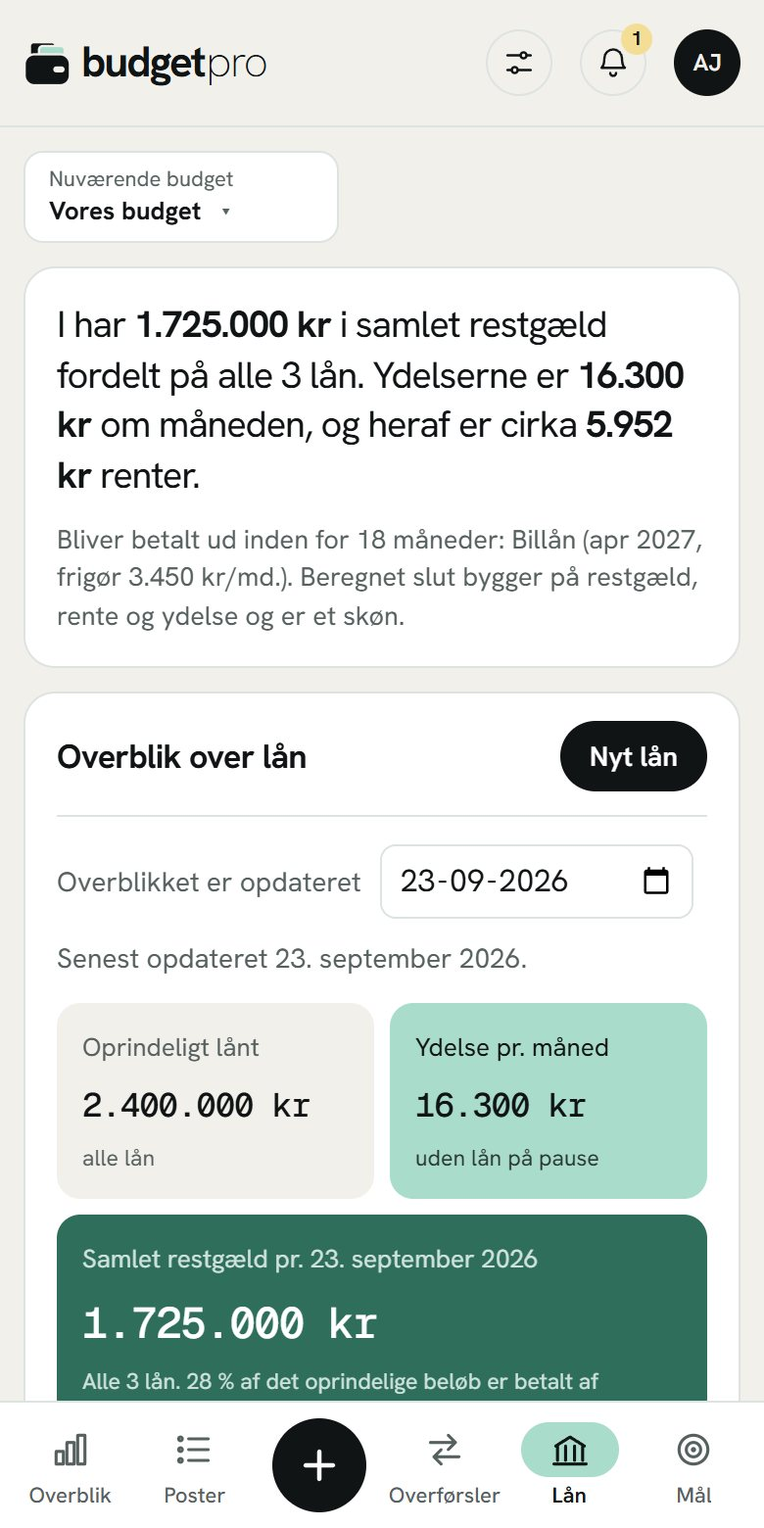
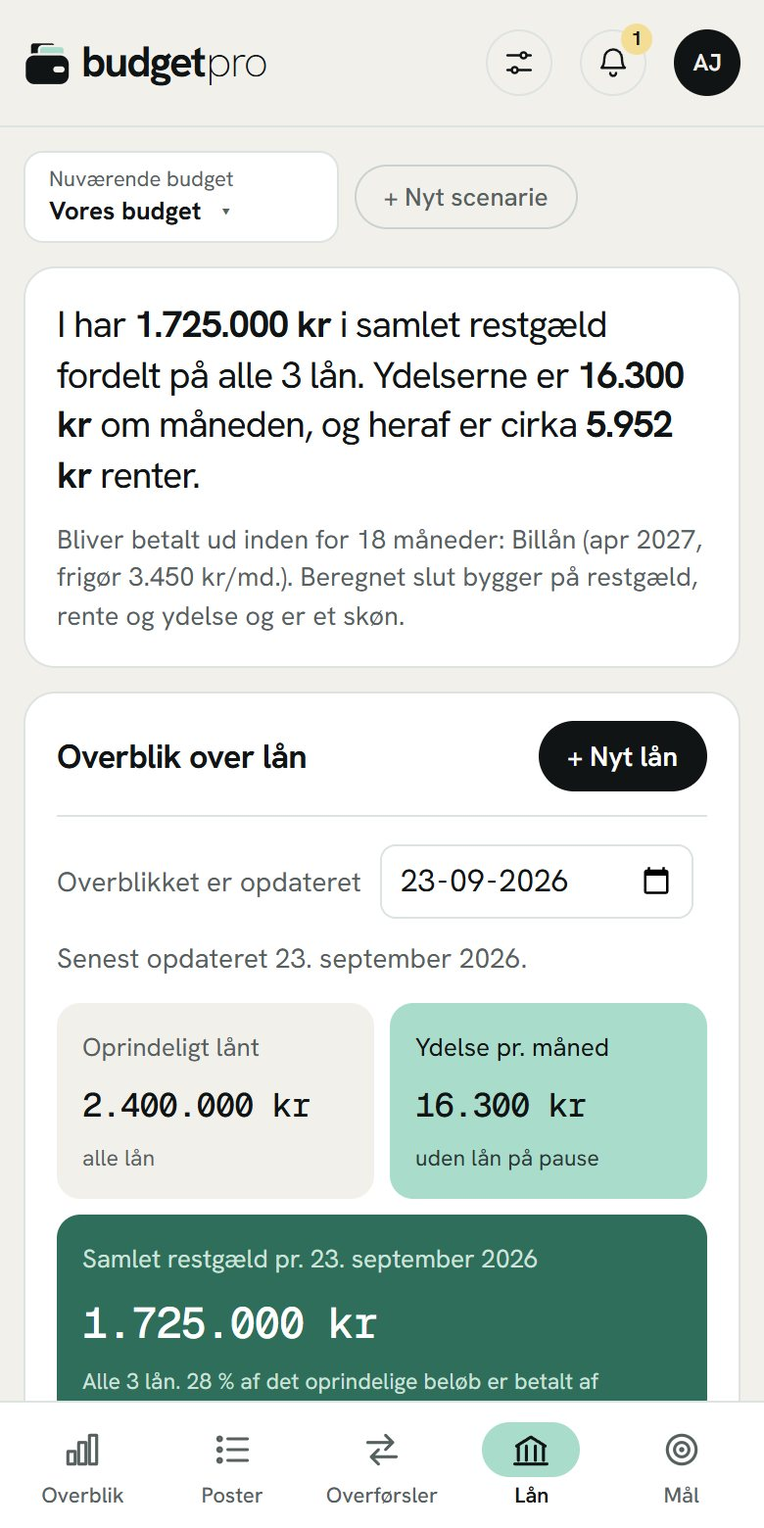
Phones: floating + on Budgetposter only, no sideways scrolling, one look for new buttons
The + leaves the bottom bar again. Filter chips wrap, and the wide tables are left out on phones.
A page's own create button is a blæk pill with +, a second one (Nyt scenarie on every page, Tilføj
in settings and the guide) a light pill with +. Income options are worded for every income.

diff --git a/public/budgetr-app/index.html b/public/budgetr-app/index.html
@@ -993,11 +993,13 @@ dialog.howdlg{width:min(1180px,96vw);max-width:none;height:92vh;max-height:92vh;
 .navrow .tools{align-self:center;padding:10px 0!important;gap:8px}
 .scnbtn{font:500 13px var(--font)!important;padding:8px 12px!important;border-radius:10px!important}
 .scnbtn #scnName{font-weight:700}
-/* "Nuværende budget" is a small, quiet label; "+ Nyt scenarie" a light pill next to the budget button, on Overblik only. */
+/* "Nuværende budget" is a small, quiet label. Every "new" button looks alike: a page's own create button is a blæk
+   pill starting with + (#btnNew, .newcta), a second one a light pill with a thin edge in the same shape (.addcta: Nyt
+   scenarie next to the budget button on every page, Tilføj … in settings and the guide). */
 .scnbtn .lbl{font-size:12px;font-weight:400;color:var(--ink2)}
-.scncta{padding:8px 14px!important;font:600 13px var(--font)!important;border-radius:999px!important;background:var(--card)!important;color:var(--ink)!important;border:1px solid var(--ink)!important}
-.scncta:hover{background:var(--band)!important}
-body:not([data-page="budget"]) #btnNewScn{display:none}
+.newcta{padding:9px 16px!important;font:600 13px var(--font)!important;border-radius:999px!important}
+.addcta{padding:7px 14px!important;font:500 13px var(--font)!important;border-radius:999px!important;background:transparent!important;color:var(--ink2)!important;border:1px solid var(--rule2)!important;box-shadow:none!important}
+.addcta:hover{color:var(--ink)!important;border-color:var(--ink3)!important}
 /* Phones: the label sits above the name, so the button and "+ Nyt scenarie" share one row. */
 @media (max-width:760px){
   .navrow .tools{flex-wrap:nowrap}
@@ -1005,7 +1007,8 @@ body:not([data-page="budget"]) #btnNewScn{display:none}
   .scnbtn{display:inline-grid!important;grid-template-columns:minmax(0,auto) auto;column-gap:8px;row-gap:1px;max-width:100%;text-align:left;padding:7px 12px!important}
   .scnbtn .lbl{grid-column:1/-1;font-size:11px;line-height:1.2}
   .scnbtn #scnName{min-width:0;max-width:none}
-  .scncta{flex-shrink:0;align-self:stretch}
+  #btnNewScn{flex-shrink:0;align-self:center}
+  .devsec .tablewrap,section.ltproj,section.ltend .tablewrap,section.gsum{display:none!important}
 }
 #btnNew{padding:9px 16px!important;font:600 13px var(--font)!important;border-radius:999px}
 button{border-radius:999px}
@@ -1155,7 +1158,7 @@ dialog h2,.sethead h2{font-weight:700}
   .navrow .tools{padding:12px 0 0!important}
   .setbtn{display:flex!important}
   .appbar .status{display:none}
-  .mnav{display:grid;grid-template-columns:repeat(2,minmax(0,1fr)) 64px repeat(3,minmax(0,1fr));position:fixed;left:0;right:0;bottom:0;z-index:40;background:var(--card);border-top:1px solid var(--rule);padding:4px 4px calc(4px + env(safe-area-inset-bottom,0px))}
+  .mnav{display:grid;grid-template-columns:repeat(5,minmax(0,1fr));position:fixed;left:0;right:0;bottom:0;z-index:40;background:var(--card);border-top:1px solid var(--rule);padding:4px 4px calc(4px + env(safe-area-inset-bottom,0px))}
   .mnav button{display:flex;flex-direction:column;align-items:center;justify-content:center;gap:3px;min-height:56px;padding:4px 0!important;border:0!important;background:transparent!important;color:var(--ink2)!important;font:500 11px/1.2 var(--font)!important;border-radius:12px!important;-webkit-tap-highlight-color:transparent}
   .mnav svg{box-sizing:content-box;width:22px;height:22px;padding:3px 14px;border-radius:14px;fill:none;stroke:currentColor;stroke-width:1.7;stroke-linecap:round;stroke-linejoin:round;transition:background .15s}
   .mnav button[aria-selected="true"]{color:var(--ink)!important;font-weight:600!important}
@@ -1163,11 +1166,8 @@ dialog h2,.sethead h2{font-weight:700}
   .mnav span{max-width:100%;overflow:hidden;text-overflow:ellipsis;white-space:nowrap}
   .fab{display:flex;align-items:center;justify-content:center;position:fixed;right:16px;bottom:calc(76px + env(safe-area-inset-bottom,0px));z-index:41;width:56px;height:56px;padding:0!important;border:0!important;border-radius:28px!important;background:var(--btn)!important;color:var(--btn-ink)!important;box-shadow:0 6px 18px rgba(16, 20, 21,.28)}
   .fab svg{width:26px;height:26px;fill:none;stroke:currentColor;stroke-width:2.2;stroke-linecap:round}
-  body[data-nobudget] .mnav{display:none}
-  /* The + in the middle of the bottom bar (like Vinted's Sælg): a round blæk button that opens a new post on every page. */
-  .mnav .mnew{gap:0}
-  .mnav .mnew svg{width:24px;height:24px;padding:12px;border-radius:50%;background:var(--btn);color:var(--btn-ink);stroke-width:2.2}
-  .mnav .mnew:active svg{transform:scale(.94)}
+  /* The floating + only on Budgetposter (user's wish – on Overblik it covered the key figures). */
+  body:not([data-page="poster"]) .fab,body[data-nobudget] .fab,body[data-nobudget] .mnav{display:none}
   .toast{bottom:calc(84px + env(safe-area-inset-bottom,0px))}
   /* Overblik: the card replaces the sentence; the 12-month graph and long hints stay on bigger screens. */
   .msum{display:block;margin:14px 0 4px;padding:16px;border-radius:14px;background:var(--card);border:1px solid var(--rule)}
@@ -1282,9 +1282,8 @@ dialog h2,.sethead h2{font-weight:700}
   .pmore{display:block;width:100%;margin-top:12px;min-height:42px;background:var(--card)!important;font-size:14px!important}
   /* Poster: search across, the three filters on one row, each category as its own block with a grey head. */
   .filters{display:grid;grid-template-columns:minmax(0,1fr);gap:8px}
-  /* The filters are chips in one row that scrolls sideways, each as wide as its text (like Vinted's filter row). */
-  .filters .fchips{display:flex;gap:8px;overflow-x:auto;scrollbar-width:none;margin:0 -16px;padding:0 16px}
-  .filters .fchips::-webkit-scrollbar{display:none}
+  /* The filters are chips, each as wide as its text, that wrap to a new line instead of scrolling sideways. */
+  .filters .fchips{display:flex;flex-wrap:wrap;gap:8px}
   .filters .fchips select{flex:0 0 auto;width:auto!important;field-sizing:content;border-radius:999px!important;padding:8px 14px!important;font:500 14px var(--font)!important}
   tr.cat:has(.pfold[aria-expanded="false"]) :is(.addp,.catdots),tr.grp:has(.pfold[aria-expanded="false"]) .addp,tr.grp .catbtn{display:none!important}
   .filters .fchips select.on{background:var(--btn)!important;color:var(--btn-ink)!important;border-color:var(--btn)!important}
@@ -1382,7 +1381,7 @@ dialog h2,.sethead h2{font-weight:700}
     <div class="tools">
       <div class="expwrap"><button type="button" class="scnbtn" id="btnScn" aria-haspopup="menu" aria-expanded="false" aria-controls="scnMenu"><span class="lbl">Nuværende budget</span> <span id="scnName">Nuværende</span> <span class="caret" aria-hidden="true">▾</span></button>
         <div class="expmenu" id="scnMenu" role="menu" hidden></div></div>
-      <button type="button" id="btnNewScn" class="scncta" hidden>+ Nyt scenarie</button>
+      <button type="button" id="btnNewScn" class="addcta" hidden>+ Nyt scenarie</button>
       <button type="button" id="btnNew" class="primary">+ Ny budgetpost</button>
     </div>
   </div>
@@ -1393,10 +1392,10 @@ dialog h2,.sethead h2{font-weight:700}
   <div class="tourcard" id="tourCard" role="dialog" aria-modal="true" aria-labelledby="tourTitle" tabindex="-1"><h2 id="tourTitle"></h2><p id="tourTxt"></p>
     <div class="tourfoot"><span class="tourn" id="tourN"></span><button type="button" id="tourBack">Tilbage</button><button type="button" class="primary" id="tourNext">Næste</button></div></div></div>
 <!-- Phones: the pages as an app bar at the bottom, and a round button for a new post. -->
+<button type="button" class="fab" id="btnNewM" aria-label="Ny budgetpost"><svg viewBox="0 0 24 24" aria-hidden="true"><path d="M12 5v14M5 12h14"/></svg></button>
 <nav class="mnav" aria-label="Sider">
   <button type="button" data-page="budget" aria-selected="true"><svg viewBox="0 0 24 24" aria-hidden="true"><path d="M4 13h4v7H4zM10 8h4v12h-4zM16 4h4v16h-4z"/></svg><span>Overblik</span></button>
   <button type="button" data-page="poster" aria-selected="false"><svg viewBox="0 0 24 24" aria-hidden="true"><path d="M9 6h11M9 12h11M9 18h11"/><circle cx="4.5" cy="6" r="1"/><circle cx="4.5" cy="12" r="1"/><circle cx="4.5" cy="18" r="1"/></svg><span>Poster</span></button>
-  <button type="button" class="mnew" id="btnNewM" aria-label="Ny budgetpost" title="Ny budgetpost"><svg viewBox="0 0 24 24" aria-hidden="true"><path d="M12 5v14M5 12h14"/></svg></button>
   <button type="button" data-page="overf" aria-selected="false"><svg viewBox="0 0 24 24" aria-hidden="true"><path d="M4 8h14M14 4l4 4-4 4M20 16H6M10 12l-4 4 4 4"/></svg><span>Overførsler</span></button>
   <button type="button" data-page="laan" aria-selected="false"><svg viewBox="0 0 24 24" aria-hidden="true"><path d="M4 10 12 5l8 5M5 10v8M19 10v8M9.5 10v8M14.5 10v8M3 20h18"/></svg><span>Lån</span></button>
   <button type="button" data-page="maal" aria-selected="false"><svg viewBox="0 0 24 24" aria-hidden="true"><circle cx="12" cy="12" r="8"/><circle cx="12" cy="12" r="4"/><circle cx="12" cy="12" r=".6"/></svg><span>Mål</span></button>
@@ -1485,8 +1484,8 @@ dialog h2,.sethead h2{font-weight:700}
       <label class="check" id="wMade" style="grid-column:1/-1"><input type="checkbox" id="fMade" checked> Oprettet i banken. Fjern fluebenet, hvis overførslen mangler at blive sat op, så kommer den på listen under klokken</label>
       <label class="check" id="wBank" style="grid-column:1/-1"><input type="checkbox" id="fBank"> Medregnes i bankens faste udgifter</label>
       <label class="check" id="wExtra" style="grid-column:1/-1"><input type="checkbox" id="fExtra"> Ekstra indtjening, fx fritidsjob. Tæller kun med, når Medregn ekstra indtjening er slået til, og indgår ikke i fordelingsnøglen</label>
-      <label class="check" id="wFree" style="grid-column:1/-1"><input type="checkbox" id="fFree"> Bundet til bestemte udgifter, fx børnefamilieydelse. Kan holdes ude af Til rådighed på personkortene under Indstillinger</label>
-      <label class="check" id="wSplit" style="grid-column:1/-1"><input type="checkbox" id="fSplit"> Tæller med i fordelingsnøglen (fast indkomst). Fjern fluebenet for fx børnefamilieydelse, der går direkte til en fælles konto</label>
+      <label class="check" id="wFree" style="grid-column:1/-1"><input type="checkbox" id="fFree"> Bundet til bestemte udgifter (øremærket), fx børnefamilieydelse, SU til husleje eller et tilskud. Kan holdes ude af Til rådighed på personkortene under Indstillinger</label>
+      <label class="check" id="wSplit" style="grid-column:1/-1"><input type="checkbox" id="fSplit"> Tæller med i fordelingsnøglen (fast indkomst). Fjern fluebenet for en indtægt, der ikke skal påvirke fordelingen, fx en, der går direkte til en fælles konto</label>
       <div class="preview" id="preview"></div>
       <button type="button" class="morefld" id="btnMoreF" aria-expanded="false">Flere felter <span>Dækning fra anden konto, nøgle, note, opgave, udvikling og afkrydsninger</span></button>
     </div>
@@ -1576,7 +1575,7 @@ dialog h2,.sethead h2{font-weight:700}
           <p class="setnote">Budgettets navn og de personer, der deler budgettet. Personerne bruges som betalere på poster, mål og konti.</p>
           <div class="field"><label for="setName">Budgettets navn</label><input id="setName" autocomplete="off"></div>
           <div class="setgrp"><span class="flabel">Personer</span><div class="acctlist" id="personList"></div>
-          <div><button type="button" id="btnAddPerson">Tilføj person</button></div>
+          <div><button type="button" id="btnAddPerson" class="addcta">+ Tilføj person</button></div>
           <p class="setnote">Fjerner du en person, flyttes personens poster og mål til Fælles, og personens konti får ingen ejer.</p></div></section>
         <section class="setsec" id="set-deling"><h3>Deling</h3>
           <p class="setnote">Deler I budgettet, kan op til tre e-mails logge ind på det. Hver logger ind med sin egen e-mail og får sin egen kode på mail. I ser og retter det samme budget.</p>
@@ -1593,7 +1592,7 @@ dialog h2,.sethead h2{font-weight:700}
         <section class="setsec" id="set-konti"><h3>Konti</h3>
           <p class="setnote">Navn, kontonummer, type og ejer. Rækkefølgen ændres ved at trække kontiene på Overblik.</p>
           <div class="acctlist" id="acctList"></div>
-          <div><button type="button" id="btnAddAcct">Tilføj konto</button></div></section>
+          <div><button type="button" id="btnAddAcct" class="addcta">+ Tilføj konto</button></div></section>
         <section class="setsec" id="set-fordeling"><h3>Fordeling</h3>
           <p class="setnote">Sådan deles de poster, der har Fælles som betaler.</p>
           <div class="grid2">
@@ -1678,7 +1677,7 @@ dialog h2,.sethead h2{font-weight:700}
       <div class="field"><label for="gPayer">Hvem betaler</label><select id="gPayer"></select></div>
       <div class="field full"><label for="gTo">Sættes ind på</label><select id="gTo"></select><input id="gToNew" autocomplete="off" placeholder="Navn på den nye konto" aria-label="Navn på den nye konto" style="display:none;margin-top:6px"><span class="err" id="egTo"></span></div>
       <div class="field full"><span class="flabel">Ekstra indbetalinger i perioden</span><div class="gxlist" id="gExtras"></div>
-        <div><button type="button" id="btnGxAdd">Tilføj ekstra indbetaling</button></div>
+        <div><button type="button" id="btnGxAdd" class="addcta">+ Tilføj ekstra indbetaling</button></div>
         <span class="note" id="gxNote">Fx feriepenge, bonus eller en gave. Beløbene trækkes fra det, der skal spares op hver måned. De skal ligge mellem startdato og måldato.</span></div>
       <div class="field full"><label for="gNote">Note</label><input id="gNote" autocomplete="off"></div>
       <div class="field full"><span class="flabel">Med i</span><div class="gscopes" id="gScopes"></div></div>
@@ -1890,7 +1889,7 @@ function spark(P){if(P.length<2)return '';const W=90,H=24,v=P.map(p=>p.m),mx=Mat
 function devHtml(){
   const L=act().map(e=>({e,d:devOf(e)})).filter(x=>x.d).sort((a,b)=>(b.d.pct??1e9)-(a.d.pct??1e9));
   const U=L.filter(x=>x.e.type==='udgift'), flag=U.filter(x=>x.d.flag), sumD=U.reduce((a,x)=>a+x.d.d,0), sumB=U.reduce((a,x)=>a+x.d.base.m,0);
-  let h=`<section><div class="sechead"><h2>Udvikling i poster</h2></div><p class="setstat">Markerer udgifter, der er steget mindst ${devPct()} % det seneste år<button type="button" data-set="visning">Ret</button></p>`;
+  let h=`<section class="devsec"><div class="sechead"><h2>Udvikling i poster</h2></div><p class="setstat">Markerer udgifter, der er steget mindst ${devPct()} % det seneste år<button type="button" data-set="visning">Ret</button></p>`;
   if(!L.length)return h+`<p class="muted" style="font-size:14px;margin:0">Ingen poster har historik endnu. Når du retter et beløb, gemmes det gamle automatisk, og du kan tilføje tidligere beløb på posten under "Udvikling – tidligere beløb". Sammenligningen er med beløbet for cirka et år siden.</p></section>`;
   h+=`<div class="kpis" style="margin-bottom:12px">
     <div class="kpi ${flag.length?'bad':'good'}"><span>Steget mindst ${devPct()} %</span><b>${flag.length}</b><small>${flag.length?esc(flag.slice(0,3).map(x=>x.e.desc).join(', '))+(flag.length>3?' …':''):'Ingen udgifter over grænsen'}</small></div>
@@ -2134,7 +2133,7 @@ function render(){
           rows.push(['= Beregnet','',disp(recFor(p.id,a.id))],['Overføres (rundet op til 100 kr)','',disp(tr)]);
           return `<span>Overføres til ${esc(a.name)} ${ib(`<b>Overførsel til ${esc(a.name)}</b>${tbl(rows)}<p>Derfor er beløbet ikke det samme som "Andel af fælles udgifter": egne poster på fælleskontoen betales fuldt af ${esc(p.name)}, og fælles udgifter betalt fra en personkonto udlignes her.</p>`)}</span><span>${disp(tr)}</span>`}).join('')+`</div>`})()}
       <div class="psav"><span class="ph">Ekstra indtjening</span>${exPosts(p.id).map(e=>`<div class="psrow click" data-open="${e.id}" tabindex="0" role="button" title="Ret posten"><span class="nm">${esc(e.desc)}<small>${esc(howOf(e))}${exOn()?'':' · ikke medregnet'}</small></span><span class="v">${disp(mAvg(e))}</span></div>`).join('')||'<span class="muted" style="font-size:13px">Ingen ekstra indtjening.</span>'}${extraSum(p)?`<div class="psum ex"><span>I alt</span><b>${disp(extraSum(p))}</b></div>`:''}
-        <button type="button" class="ghost" data-exnew="${p.id}" style="align-self:flex-start">Tilføj ekstra indtjening</button></div>
+        <button type="button" class="addcta" data-exnew="${p.id}" style="align-self:flex-start">+ Tilføj ekstra indtjening</button></div>
       ${psavHtml(p,c)}
       <div class="kv pend"><span>Tilbage efter opsparing</span><span style="color:${c.afterSav>=0?'var(--pine)':'var(--brick)'}">${disp(c.afterSav)}</span></div>
       ${c.afterSav<0?`<div class="verdict bad">Opsparingen er ${disp(-c.afterSav)} højere end rådighedsbeløbet.</div>`:''}
@@ -2359,7 +2358,7 @@ function goalsHtml(){
   let h=scBarHtml(false);
   h+=`<div class="hero"><p>${L.length?`I ${ctx} sparer ${S.persons.length===1?'du':'I'} <b>${disp(mon)}</b> op ${per()} til ${L.length} ${L.length===1?'mål':'mål'}. Tilbage efter al opsparing: <b class="${t.afterSav>=0?'left':'neg'}">${disp(t.afterSav)}</b>.`:`Ingen opsparingsmål i ${ctx} endnu.`}</p>
    <small>Et mål er enten et fast beløb, hvor det månedlige beløb beregnes, eller en fast månedlig indbetaling, hvor slutbeløbet beregnes. Ekstra indbetalinger, fx feriepenge eller bonus, ligger uden for budgettet. Hvert mål bliver til en fast månedlig post på den valgte konto, så konti, fordeling, rådighedsbeløb og scenarier regner med det. Mål, der er nået måldatoen eller er inaktive, tæller ikke med.</small></div>`;
-  h+=`<section><div class="sechead"><h2>Opsparingsmål</h2><button type="button" class="primary" data-gnew>Nyt opsparingsmål</button></div>`;
+  h+=`<section><div class="sechead"><h2>Opsparingsmål</h2><button type="button" class="primary newcta" data-gnew>+ Nyt opsparingsmål</button></div>`;
   if(!G.length)h+=`<div class="empty" style="padding:8px 0"><p>Opret et mål, fx udbetaling til hus. Angiv beløb, startdato og måldato, så beregnes det månedlige beløb. Vælg konto og betaler som på en almindelig post.</p></div>`;
   else{h+=`<div class="goals">`+G.map(g=>{const c=goalCalc(g),inCtx=goalIn(g,key),tr=g.to&&g.to!==g.from;
     const badge=g.active===false?'<span class="badge un">Inaktiv</span>':c.ended?`<span class="badge un">${c.mode==='monthly'?'Slutdato':'Måldato'} er passeret</span>`:c.future?`<span class="badge chk">Starter ${idxLbl(c.s).toLowerCase()}</span>`:'';
@@ -2374,7 +2373,7 @@ function goalsHtml(){
     const rowsG=L.map(g=>{const c=goalCalc(g),tr=g.to&&g.to!==g.from;return `<tr><td><span class="gdot" style="background:${gColor(g)}"></span>${esc(g.name||'Mål')}</td><td>${esc(accName(g.from))}${tr?' til '+esc(accName(g.to)):''}</td><td>${esc(perName(g.payer||FAELLES))}</td><td class="r">${c.xs?kr(c.xs):'<span class="muted">–</span>'}</td><td class="r">${disp(c.monthly)}</td></tr>`}).join('');
     const rowsP=S.persons.map(p=>{const c=personCalc(p.id);return `<tr><td>${esc(p.name)}</td><td class="r">${disp(c.gOwn)}</td><td class="r">${disp(c.gSh)}</td><td class="r"><b>${disp(c.gsav)}</b></td><td class="r" style="color:${c.afterSav>=0?'var(--pine)':'var(--brick)'}">${disp(c.afterSav)}</td></tr>`}).join('');
     const accs=[...new Set(L.map(g=>g.from||''))].map(id=>{const c=accountCalc(id);return `<tr><td>${esc(accName(id))}</td><td class="r">${disp(L.filter(g=>(g.from||'')===id).reduce((a,g)=>a+goalCalc(g).monthly,0))}</td><td class="r" style="color:${c.left>=0?'var(--pine)':'var(--brick)'}">${disp(c.left)}</td></tr>`}).join('');
-    h+=`<section><div class="sechead"><h2>Opsummering ${per()}</h2><span class="hint">I ${ctx}. Fælles mål fordeles med samme nøgle som de fælles udgifter.</span></div>
+    h+=`<section class="gsum"><div class="sechead"><h2>Opsummering ${per()}</h2><span class="hint">I ${ctx}. Fælles mål fordeles med samme nøgle som de fælles udgifter.</span></div>
      <div class="kpis" style="margin-bottom:12px">
       <div class="kpi hero2"><span>Til opsparingsmål</span><b>${disp(mon)}</b><small>${per()}</small></div>
       <div class="kpi"><span>Samlet målbeløb</span><b>${kr(T)}</b><small>${L.length-nOpen} mål${nOpen?` + ${nOpen} løbende uden slutbeløb`:''}</small></div>
@@ -2567,7 +2566,7 @@ function overfHtml(){
    <p class="muted" style="font-size:13px;margin-top:8px">"Bør være" følger jeres fordeling efter betaler og rundes op til nærmeste 100 kr. "Sat op nu" er det beløb, der er registreret som overførslens beløb.</p></section>`;
   if(T.length)h+=`<section class="tflow"><div class="sechead"><h2>Pengestrømme</h2><span class="hint">Klik på en streg eller en konto for at fremhæve den. Stregens tykkelse følger beløbet ${per()}.</span></div>${flowSvg(T)}<div class="flowinfo" id="flowInfo" aria-live="polite"></div></section>`;
   const fixIds=new Set(fixes.map(x=>x.e.id)), nf0=(S.accounts.find(a=>a.type==='faelles')||S.accounts[0]||{}).id||'';
-  h+=`<section><div class="sechead"><h2>Overførsler pr. konto</h2><button type="button" class="primary" data-tnew="${nf0}">Ny overførsel</button></div><div class="tcards">`;
+  h+=`<section><div class="sechead"><h2>Overførsler pr. konto</h2><button type="button" class="primary newcta" data-tnew="${nf0}">+ Ny overførsel</button></div><div class="tcards">`;
   const src=acctOrder().filter(a=>all.some(e=>e.from===a.id));
   if(!src.length)h+=`<p class="muted" style="font-size:14px;margin:4px 0">Ingen faste overførsler endnu.</p>`;
   src.forEach(a=>{
@@ -2656,7 +2655,7 @@ function loansHtml(){
   const updMonths=updD?(now.getFullYear()-updD.getFullYear())*12+now.getMonth()-updD.getMonth():0, updOld=updD&&updMonths>=6;
   let h=`<div class="hero"><p>${IN.length===L.length?wI('Du har','I har'):'De valgte lån har'} <b>${kr(tP)}</b> i samlet restgæld fordelt på ${selTxt}. Ydelserne er <b>${kr(tA)}</b> om måneden, og heraf er cirka <b>${kr(tI)}</b> renter.</p>
    <small>${soon.length?'Bliver betalt ud inden for 18 måneder: '+soon.map(x=>esc(x.l.desc)+' ('+x.c.endTxt+', frigør '+kr(x.c.A)+'/md.)').join(', ')+'. ':''}Beregnet slut bygger på restgæld, rente og ydelse og er et skøn.</small></div>
-  <section><div class="sechead"><h2>Overblik over lån</h2><button type="button" id="btnNewLoan" class="primary">Nyt lån</button></div>
+  <section><div class="sechead"><h2>Overblik over lån</h2><button type="button" id="btnNewLoan" class="primary newcta">+ Nyt lån</button></div>
    <div class="upd ${updOld?'old':''}"><label for="loanUpd">Overblikket er opdateret</label><input type="date" id="loanUpd" value="${esc(S.loanUpdated||'')}">
     <span>${S.loanUpdated?(updOld?`Opdateret for ${updMonths} måneder siden. Tjek restgælden i netbanken.`:`Senest opdateret ${fmtDate(S.loanUpdated)}.`):'Angiv hvornår restgælden sidst er tjekket.'}</span></div>
    <div class="kpis" style="margin-bottom:14px">
@@ -2713,7 +2712,7 @@ function loanProjHtml(){
   const D=loanProjData();
   if(!D)return '';
   const {si,ti,to,months,startTxt}=D;
-  let h=`<section class="ltl"><div class="sechead"><h2>Fremskriv restgæld</h2><span class="hint">Se, hvad restgælden er nede på til en dato, du vælger. Der regnes ud fra restgæld, rente og ydelse${S.loanUpdated?' fra '+fmtDate(S.loanUpdated):''}.</span></div>
+  let h=`<section class="ltl ltproj"><div class="sechead"><h2>Fremskriv restgæld</h2><span class="hint">Se, hvad restgælden er nede på til en dato, du vælger. Der regnes ud fra restgæld, rente og ydelse${S.loanUpdated?' fra '+fmtDate(S.loanUpdated):''}.</span></div>
    <div class="upd"><label for="loanProjTo">Fremskriv til</label><input type="date" id="loanProjTo" value="${esc(to)}">
     <span>${months>0?`${months} ${months===1?'betaling':'betalinger'} fra ${startTxt}.`:''}</span></div>`;
   if(months<=0)return h+`<p class="muted" style="font-size:14px">Vælg en dato efter ${startTxt}, hvor restgælden er opgjort.</p></section>`;
@@ -2764,7 +2763,7 @@ function loanEndsHtml(){
   path+=` L${X(b)},${Y(c2)}`;
   const svg=`<svg viewBox="0 0 ${W} ${H}" role="img" aria-label="Frigivet ydelse over tid">${g}<path d="${path}" fill="none" stroke="var(--pine)" stroke-width="2.5" stroke-linejoin="round"/></svg>`;
   const soon=L.filter(x=>x.en.i-nw<=12), soonSum=soon.reduce((s,x)=>s+x.free,0);
-  return `<section class="ltl"><div class="sechead"><h2>Udløb og frigivne beløb</h2><span class="hint">Hvornår lånene er betalt ud, og hvor meget der frigives om måneden. Kurven viser det samlede frigivne beløb pr. md. over tid. Numrene svarer til tabellen.</span></div>
+  return `<section class="ltl ltend"><div class="sechead"><h2>Udløb og frigivne beløb</h2><span class="hint">Hvornår lånene er betalt ud, og hvor meget der frigives om måneden. Kurven viser det samlede frigivne beløb pr. md. over tid. Numrene svarer til tabellen.</span></div>
    <div class="kpis" style="margin-bottom:12px">
     <div class="kpi ${soon.length?'good':''}"><span>Frigives inden for 12 md.</span><b>${kr(soonSum)}</b><small>${soon.length?soon.map(x=>esc(x.l.desc||x.l.bank)).join(', '):'Ingen lån udløber det næste år'}</small></div>
     <div class="kpi"><span>Næste udløb</span><b>${idxLbl(L[0].en.i)}</b><small>${esc(L[0].l.desc||L[0].l.bank)}, frigiver ${kr(L[0].free)}/md.</small></div>
@@ -2923,7 +2922,7 @@ $('btnHelpClose').onclick=()=>$('dlgHelp').close();
   addEventListener('popstate',()=>{if(skip){skip--;return}const d=[...document.querySelectorAll('dialog[open]')].filter(x=>x._hbBack).pop();if(d){d._hbBack=false;d.close()}})})();
 /* ---------- Rundtur: where things are, in six stops ---------- */
 // Started from the profile menu. Each stop points at what the user sees: the top tabs and buttons on a wide screen,
-// the bottom bar, the round + in it and the gear on a phone. A stop whose button isn't shown is skipped.
+// the bottom bar, the round + and the gear on a phone. A stop whose button isn't shown is skipped.
 const TOUR=[
   {el:'.tabs,.mnav',t:'Siderne',x:'Overblik viser hele budgettet. Under Budgetposter retter du indtægter og udgifter, og Lån, Overførsler og Mål har hver deres side.'},
   {el:'#btnNew,#btnNewM',t:'Ny budgetpost',x:'Her lægger du en ny indtægt eller udgift ind. Du kan også trykke på en post for at rette den.'},
@@ -4578,7 +4577,7 @@ function renderDImp(){const b=$('dimpBody'),rev=DI.stage==='review',nx=$('dimpNe
   if(!rev){const ok=DI.files.filter(f=>(f.tx&&f.tx.length)||(f.budget&&f.budget.length));
     b.innerHTML=`<p class="wzp">${DI.kind==='budget'?'Læg de budgetter ind, du vil bygge videre på, fx fra Excel eller CSV. Har I hver jeres budget, kan I lægge dem ind på én gang. Kontoudskrifter kan også lægges ind her, så de nyeste beløb kommer med.':'Hent posteringer fra netbanken for hver konto, der skal med, fx de seneste 3–12 måneder, og læg filerne ind her. Læg gerne alle filer ind på én gang, så overførsler mellem egne konti kan findes. Har du allerede et budget i Excel, kan du også lægge det ind her.'} Selve filerne bliver ikke gemt eller sendt videre. Kun de poster, du vælger, bliver gemt.</p>
       <h3 class="dsec" style="margin-top:0">Personer i ${wh}</h3>
-      <div class="dpers">${S.persons.map(p=>`<input data-dpn="${p.id}" value="${esc(p.name)}" aria-label="Navn på person" autocomplete="off">`).join('')}${S.persons.length<6?'<button type="button" id="dAddP">Tilføj person</button>':''}</div>
+      <div class="dpers">${S.persons.map(p=>`<input data-dpn="${p.id}" value="${esc(p.name)}" aria-label="Navn på person" autocomplete="off">`).join('')}${S.persons.length<6?'<button type="button" id="dAddP" class="addcta">+ Tilføj person</button>':''}</div>
       <h3 class="dsec">Filer</h3>
       ${DI.files.map(f=>{const sp=f.tx&&f.tx.length?dSpan(f.tx):null,bn=f.budget?f.budget.length:0;return `<div class="dfile"><div class="dfh"><b>${esc(f.name)}</b>
         <span${f.err?' class="bad"':''}>${f.busy?'Læser filen…':f.err?esc(f.err):bn?`Budget med ${bn} ${bn===1?'post':'poster'}`:`${f.tx.length} posteringer fra ${esc(fmtDate(sp.from))} til ${esc(fmtDate(sp.to))}`}</span>
@@ -4708,7 +4707,7 @@ function renderWiz(){const b=$('wzBody');$('wzErr').hidden=true;$('wzHint').text
   if(WS===WS_PERS)b.innerHTML=`<p class="wzp">Hvem er med i budgettet? Skriv navnet på hver person og den løn, der udbetales efter skat hver måned. Navnet skal udfyldes, lønnen kan du tilføje senere.</p>
     <div class="wzgrid" style="grid-template-columns:minmax(0,1fr) 180px auto"><span class="hd">Navn</span><span class="hd">Udbetalt løn pr. md.</span><span></span>
     ${W.persons.map((p,i)=>`<div style="display:contents" data-wp="${i}"><input data-f="name" value="${esc(p.name)}" placeholder="Person ${i+1}" autocomplete="off"><input data-f="sal" inputmode="decimal" value="${esc(p.salary)}" placeholder="fx 32.000"><button type="button" class="ghost danger" data-wpx="${i}" ${W.persons.length<2?'disabled':''} aria-label="Fjern person">✕</button></div>`).join('')}</div>
-    ${W.persons.length<4?'<button type="button" id="wzAddP" style="margin-top:8px">Tilføj person</button>':''}
+    ${W.persons.length<4?'<button type="button" id="wzAddP" class="addcta" style="margin-top:8px">+ Tilføj person</button>':''}
     ${wzCanInvite()&&W.persons.length>1?`<div class="wzinv"><p class="wzp" style="margin-top:16px">Skal de andre kunne logge ind i budgettet? Skriv deres e-mail, så får de en invitation, når budgettet er oprettet. Det kan også gøres senere under Indstillinger &gt; Deling.</p>
       ${W.persons.slice(1,1+WZ_MAX_INVITES).map((p,j)=>`<label class="wzinvf"><span>${esc(p.name||'Person '+(j+2))}s e-mail (valgfri)</span><input data-wpe="${j+1}" type="email" inputmode="email" autocomplete="off" value="${esc(p.email||'')}" placeholder="navn@eksempel.dk"></label>`).join('')}</div>`:''}`;
   if(WS===WS_ACC)b.innerHTML=`<p class="wzp">Hvilke konti bruger ${wzT('du','I')}? Navne og kontonumre kan rettes senere under Indstillinger.</p>
@@ -4729,7 +4728,7 @@ function renderWiz(){const b=$('wzBody');$('wzErr').hidden=true;$('wzHint').text
   if(WS===WS_GOALS)b.innerHTML=`<p class="wzp">Har ${wzT('du noget, du','I noget, I')} sparer op til? Korte svar er nok. Alt kan rettes under Opsparingsmål.</p>
     <div class="wzgrid wzgoals" style="grid-template-columns:minmax(0,1fr) 170px 140px 160px"><span class="hd">Mål</span><span class="hd">Type</span><span class="hd">Beløb</span><span class="hd">Måldato</span>
     ${W.goals.map((g,i)=>`<div class="wzgrow" data-wg="${i}"><label class="wzf wide"><span>Mål</span><input data-f="name" value="${esc(g.name)}" placeholder="fx Udbetaling til hus" autocomplete="off" aria-label="Mål"></label><label class="wzf"><span>Type</span><select data-f="mode" aria-label="Type"><option value="target" ${g.mode==='target'?'selected':''}>Fast beløb</option><option value="monthly" ${g.mode==='monthly'?'selected':''}>Beløb pr. md.</option></select></label><label class="wzf"><span>Beløb</span><input data-f="amt" inputmode="decimal" value="${esc(g.amount)}" placeholder="0" aria-label="Beløb"></label><label class="wzf wide"><span>Måldato</span><input data-f="end" type="date" value="${esc(g.end)}" aria-label="Måldato"></label></div>`).join('')}</div>
-    ${W.goals.length<5?'<button type="button" id="wzAddG" style="margin-top:8px">Tilføj mål</button>':''}<p class="muted" style="font-size:13px;margin-top:8px">Målene starter næste måned${W.acc.savings?` og betales ${wzT('','fælles ')}til ${esc(W.acc.savingsName)}`:wzT('',' og betales fælles')}. Ved "Beløb pr. md." er måldatoen valgfri.</p>`;
+    ${W.goals.length<5?'<button type="button" id="wzAddG" class="addcta" style="margin-top:8px">+ Tilføj mål</button>':''}<p class="muted" style="font-size:13px;margin-top:8px">Målene starter næste måned${W.acc.savings?` og betales ${wzT('','fælles ')}til ${esc(W.acc.savingsName)}`:wzT('',' og betales fælles')}. Ved "Beløb pr. md." er måldatoen valgfri.</p>`;
   if(WS===WS_BANK){const inp='style="max-width:100%"';
     b.innerHTML=`<p class="wzp">Når banken regner rådighedsbeløbet ud, trækker den de faste udgifter fra indtægterne. Når du opretter dine udgifter, kan du på hver post vælge, om banken tager den med.</p>
     <p class="wzp" style="margin-top:14px">Bankens vejledende krav til rådighedsbeløbet. Som tommelfingerregel for 2026 ligger det for et par på 11.000–12.500 kr. pr. måned, og hertil kommer cirka 2.500–3.500 kr. pr. barn.</p>

diff --git a/lib/media-version.ts b/lib/media-version.ts
@@ -4,7 +4,7 @@
  * keep showing the old ones; the pages add `?v=<MEDIA_V>` to their URLs. Raise it after remaking them.
  * next.config.ts allows exactly this query on those paths (images.localPatterns).
  */
-export const MEDIA_V = "9";
+export const MEDIA_V = "10";
 
 /** A public path with the media version appended. */
 export const media = (path: string) => `${path}?v=${MEDIA_V}`;

diff --git a/CLAUDE.md b/CLAUDE.md
@@ -7,13 +7,13 @@ Language: code and comments in English; UI text in Danish (du-form, calm, no exc
 ## Architecture
 
 - `/` landing page (Next.js, `components/landing/`), `/login` test-user login (Next.js), `/app` = the ORIGINAL budgetr app from the prototype, a single vanilla-JS file at `public/budgetr-app/index.html` (rewritten in `next.config.ts`). The user chose to keep that app 1:1 instead of a React rebuild; change features by editing that file directly, and keep its behaviour and look.
-- On phones (≤760 px) the app works like an app: the pages sit in a fixed bar at the bottom (`.mnav`, same `data-page` buttons as the top tabs), a round blæk + in the middle of that bar opens a new post on every page (`#btnNewM.mnew`, like Vinted's Sælg – it no longer floats over the content), Indstillinger is the gear in the top bar (`.setbtn`), Overblik starts with Månedstjek (when due) or Rådighedsbeløb, shows the key-figure card (`mobSumHtml()`) in its last section, "Hvad er der tilbage", and leaves out the 12-month graph, and the post editor (which has a close cross, `#dlgX`, on every screen – it also takes the dialog's first focus, so the type field never opens by itself) fills the screen with fixed buttons and the main fields first (the rest behind "Flere felter", `moreFields()`). Every section is one card with its heading inside (no card on a card: inner parts become grey tiles or rows with a line), the person cards and goals show their result with the details behind a button (`moreBtn()`/`PDET`), the explanation under a page's sentence is cut to three lines with "Vis mere" (`clampHero()`), the post filters are a row of chips that scrolls sideways (`.fchips`, a set filter is a dark chip, `flMark()`), each post category is its own block and starts folded (a folded row shows only name, count and sum – its + and ··· come when opened) (Indtægter too; `pfOn()` – `PFOLD` keeps what was opened, so a missing key means folded on phones; the whole heading row folds), the back gesture closes an open dialog instead of leaving the app (`showModal` adds a history entry, closing takes it away), loans are small cards, and Pengestrømme and the goal chart are left out. A new page needs a button in both `.tabs` and `.mnav`. JS must select page buttons as `button[data-page]`: `<body data-page>` (for CSS) also carries the attribute, and once it matched, every click re-rendered the page and jumped to the top. "Rundtur" in the profile menu (`openTour()`, stops in `TOUR`) dims the page and points at six things in turn – the pages, new post, scenarios/drafts, tasks, settings, the menu – using whichever button is shown (top tabs or `.mnav`, `#btnNew` or `#btnNewM`); when one of them moves or a main feature gets its own button, update `TOUR`.
+- On phones (≤760 px) the app works like an app: the pages sit in a fixed bar at the bottom (`.mnav`, same `data-page` buttons as the top tabs), a round + floats above it on Budgetposter only (`.fab`, user's wish – a + inside the bottom bar was tried and dropped), Indstillinger is the gear in the top bar (`.setbtn`), Overblik starts with Månedstjek (when due) or Rådighedsbeløb, shows the key-figure card (`mobSumHtml()`) in its last section, "Hvad er der tilbage", and leaves out the 12-month graph, and the post editor (which has a close cross, `#dlgX`, on every screen – it also takes the dialog's first focus, so the type field never opens by itself) fills the screen with fixed buttons and the main fields first (the rest behind "Flere felter", `moreFields()`). Every section is one card with its heading inside (no card on a card: inner parts become grey tiles or rows with a line), the person cards and goals show their result with the details behind a button (`moreBtn()`/`PDET`), the explanation under a page's sentence is cut to three lines with "Vis mere" (`clampHero()`), nothing scrolls sideways (user's wish): the post filters are chips that wrap (`.fchips`, a set filter is a dark chip, `flMark()`), and the wide tables are left out – the table under Udvikling i poster, Fremskriv restgæld, the table under Udløb og frigivne beløb and Mål's Opsummering –, each post category is its own block and starts folded (a folded row shows only name, count and sum – its + and ··· come when opened) (Indtægter too; `pfOn()` – `PFOLD` keeps what was opened, so a missing key means folded on phones; the whole heading row folds), the back gesture closes an open dialog instead of leaving the app (`showModal` adds a history entry, closing takes it away), loans are small cards, and Pengestrømme and the goal chart are left out. A new page needs a button in both `.tabs` and `.mnav`. JS must select page buttons as `button[data-page]`: `<body data-page>` (for CSS) also carries the attribute, and once it matched, every click re-rendered the page and jumped to the top. "Rundtur" in the profile menu (`openTour()`, stops in `TOUR`) dims the page and points at six things in turn – the pages, new post, scenarios/drafts, tasks, settings, the menu – using whichever button is shown (top tabs or `.mnav`, `#btnNew` or `#btnNewM`); when one of them moves or a main feature gets its own button, update `TOUR`.
 - The app's fonts (Geist, Geist Mono, Hanken Grotesk) are served from `public/budgetr-app/fonts/` – never load them from Google again (that sends the visitor's IP to Google without consent). Indstillinger > Din bruger lets the primary e-mail delete the account (`DELETE /api/account/[user]` with `{confirm:"SLET"}` → `deleteAccount()` in `lib/accounts.ts`: account, budget, backups, profile, activity, send counter). When something new is stored per account, delete it there too and update `/privatliv`.
 - Vendor libs for the app live in `public/budgetr-app/vendor/` (jsPDF, AutoTable, xlsx-js-style = SheetJS 0.18.5 with cell styles, `pdfjs/` = pdf.js 6.3.289 legacy build for reading PDF statements, loaded on first use). Don't edit them.
 - Draft budgets (Kladder): whole budgets stored inside the primary one as `drafts[]` (`{id,name,created,mode,files,data}`, one level deep). While a draft is open, `S` is the draft's data and `ROOT` the primary budget, so all pages work on the draft; saving and the backup always use `rootS()`. The draft import reads several CSV/Excel/PDF statements at once, pairs transfers between the uploaded accounts, and stores only the chosen entries (never the transactions). It also reads budgets made in Excel/CSV (`budgetRows()`: months Jan–Dec or Q1–Q4 as columns, amount + frequency, one row per month and post, or one column per person; all sheets; totals skipped) and offers their posts as they stand; a file that is a budget is never read as a statement. "Sæt som primært budget" swaps them and keeps the old budget as a draft (`mode:'prev'`). The guide "Start nyt budget" starts by asking how to begin (`WS_START`: empty, from statements or from existing budgets; the two file choices open the draft import right after the budget is made, `openDImp(kind)`), and it also saves its result as a draft when a budget already exists; it only becomes the primary budget on a first visit.
 - Test-user layer: `lib/users.ts` (KBJ, TEST1–TEST5, no password; GUIDE starts over in the guide on every load – the prelude ignores its saved copies). `/login` writes the user id to `localStorage["budgetr:session"]`; the prelude script at the top of the app's `<head>` reads it, redirects to `/login` without it, and stores the budget under `budgetr-app:<userId>`. To add a user, append to `USERS`.
 - Demo customer: test user `demo` (login `DEMO`, no mail). `/demobruger` (`components/app/OpenDemo.tsx`) (linked as "Prøv demoen" from the private front page's hero and from Erhverv) first shows a calm "Demoen gøres klar" screen and waits for the visitor to press "Start demoen" (user's wish); it resets the budget through `POST /api/demo` to the fictional family in `lib/demo-customer.ts` (every feature in use: all three draft kinds, scenarios, goals, loans, history, tasks, reminders), clears the browser copy and opens `/app`. Logging in with `DEMO` on `/login` keeps the changes instead. When the app gets a new feature, add it to the demo.
-- Overblik shows little at first (user's wish), top to bottom: Månedstjek when due, Rådighedsbeløb (heading without "som banken regner det"), Konti and Hvem betaler hvad as folded sections (whole head folds, `sfHead()`/`bindSfold()`, `section.sfold` + `.sfbody`, open state per browser in `localStorage["hb-secopen"]`, keys `konti`/`hvem`; `scripts/landing-shots.mjs` opens both), and last "Hvad er der tilbage" (`section.leftsec`: the sentence with the one main number, "Tilbage pr. måned" after the fixed expenses and, when there is any, the savings, the status pill and "Tilbage pr. person"; `mobSumHtml()` there on phones), then Måned for måned on desktop. The bank section shows Rådighedsbeløb and Luft over kravet; Nettoindtægt, Bankens faste udgifter and Vejledende krav sit under "Se beregningen". The budget menu (`renderScn()`, button label Nuværende budget / Scenarie / Kladde, small and muted; on Overblik a "+ Nyt scenarie" button sits next to it, `#btnNewScn`, not while a draft is open) has two groups, each with its own "+": "Scenarier · ændringer af budgettet" and "Kladder · hele budgetter ved siden af" – `video/kom-i-gang.html` draws it. The guide speaks to one person as "du" and leaves out Fordeling (`wzSolo()`, `wzT()`, `wzOrder()`); with two or more it says "I" (elsewhere `wI()` picks du/dine for one person). On a real account the guide's Personer step can invite the others by e-mail (max 2, sent through `/api/members` after the budget is made, `wzSendInvites()`), and a first budget started empty offers the Rundtur (`offerTour()`). An empty app can "Prøv med eksempeldata": `GET /api/demo` gives the demo family without drafts or reminders, marked `settings.example` (`exampleBudget()` in `lib/demo-customer.ts`); the draft bar then says it is an example, and the guide replaces it instead of making a draft (`isExample()`, `wzDraft()`). Månedstjek (`monthCheckHtml()`, no "første gang" label): every 30 days (the first time once a budget has 5 posts) Overblik lists the posts with a new amount or new since the last check (`since`/`history`) and the posts to check and open tasks; "Budgettet passer" stores `settings.monthCheck` (`scripts/demo-budget.mjs` sets it, so the landing shots stay clean).
+- Overblik shows little at first (user's wish), top to bottom: Månedstjek when due, Rådighedsbeløb (heading without "som banken regner det"), Konti and Hvem betaler hvad as folded sections (whole head folds, `sfHead()`/`bindSfold()`, `section.sfold` + `.sfbody`, open state per browser in `localStorage["hb-secopen"]`, keys `konti`/`hvem`; `scripts/landing-shots.mjs` opens both), and last "Hvad er der tilbage" (`section.leftsec`: the sentence with the one main number, "Tilbage pr. måned" after the fixed expenses and, when there is any, the savings, the status pill and "Tilbage pr. person"; `mobSumHtml()` there on phones), then Måned for måned on desktop. The bank section shows Rådighedsbeløb and Luft over kravet; Nettoindtægt, Bankens faste udgifter and Vejledende krav sit under "Se beregningen". The budget menu (`renderScn()`, button label Nuværende budget / Scenarie / Kladde, small and muted; a quiet "+ Nyt scenarie" button sits next to it on every page, `#btnNewScn`, not while a draft is open). Every "new" button looks alike (user's wish): a page's own create button is a blæk pill starting with + (`#btnNew`, `.newcta`: Ny budgetpost, Nyt lån, Ny overførsel, Nyt opsparingsmål), a second one a light pill with a thin edge and + (`.addcta`: Nyt scenarie, Tilføj person/konto/… in settings and the guide) has two groups, each with its own "+": "Scenarier · ændringer af budgettet" and "Kladder · hele budgetter ved siden af" – `video/kom-i-gang.html` draws it. The guide speaks to one person as "du" and leaves out Fordeling (`wzSolo()`, `wzT()`, `wzOrder()`); with two or more it says "I" (elsewhere `wI()` picks du/dine for one person). On a real account the guide's Personer step can invite the others by e-mail (max 2, sent through `/api/members` after the budget is made, `wzSendInvites()`), and a first budget started empty offers the Rundtur (`offerTour()`). An empty app can "Prøv med eksempeldata": `GET /api/demo` gives the demo family without drafts or reminders, marked `settings.example` (`exampleBudget()` in `lib/demo-customer.ts`); the draft bar then says it is an example, and the guide replaces it instead of making a draft (`isExample()`, `wzDraft()`). Månedstjek (`monthCheckHtml()`, no "første gang" label): every 30 days (the first time once a budget has 5 posts) Overblik lists the posts with a new amount or new since the last check (`since`/`history`) and the posts to check and open tasks; "Budgettet passer" stores `settings.monthCheck` (`scripts/demo-budget.mjs` sets it, so the landing shots stay clean).
 - Real accounts (next to the test users): `/opret` takes first name, last name, e-mail and an optional Danish mobile number (only for SMS reminders; added, changed or removed later under Indstillinger > Din bruger, `PUT /api/account/<id>/mobil` → `setPhone()`, primary e-mail only) and mails a confirm mail; later logins also go by mail (no passwords). Each mail has a link (logs in the device that opens it) and a 6-digit code (typed on the device that asked, max 5 tries). `lib/signup.ts` (form rules, shared with the browser), `lib/accounts.ts` (`data/accounts/<id>.json`, ids `u-…`, one-time links stored as a hash), `lib/session.ts` (signed httpOnly cookie `budgetr_session`; `/api/budget` and `/api/profile` serve an account only to its own session, test users need none), `lib/auth-mail.ts`, routes `app/api/auth/*`, link page `/login/bekraeft` (the link is only used on a button press, so mail scanners can't spend it). Confirming writes `data/profiles/<id>.json` for reminders. The app also keeps the name in `localStorage["budgetr:session-name"]`.
 - Shared budgets: an account's own e-mail is the primary login; the primary can add up to 2 more e-mails (`MAX_LOGINS = 3`) under Indstillinger > Deling (route `app/api/members/[user]`). Members are stored in the account file (`members[]`), get an invite mail (link, 7 days) and later their own login codes; one e-mail belongs to one budget only. A member's session cookie carries the member id, so removing a member (or the member leaving) ends their access. Reminders still go to the primary's profile.
 - "Send på mail" (Import og eksport): the app builds the PDF/Excel file and posts it to `app/api/send/[user]`; `lib/send-file.ts` checks it (own file types only, ≤3 MB, one receiver, max 10 mails a day per budget) and mails it through Resend with the sender's name and reply-to. Only real accounts with a session may send; test users only in development.
